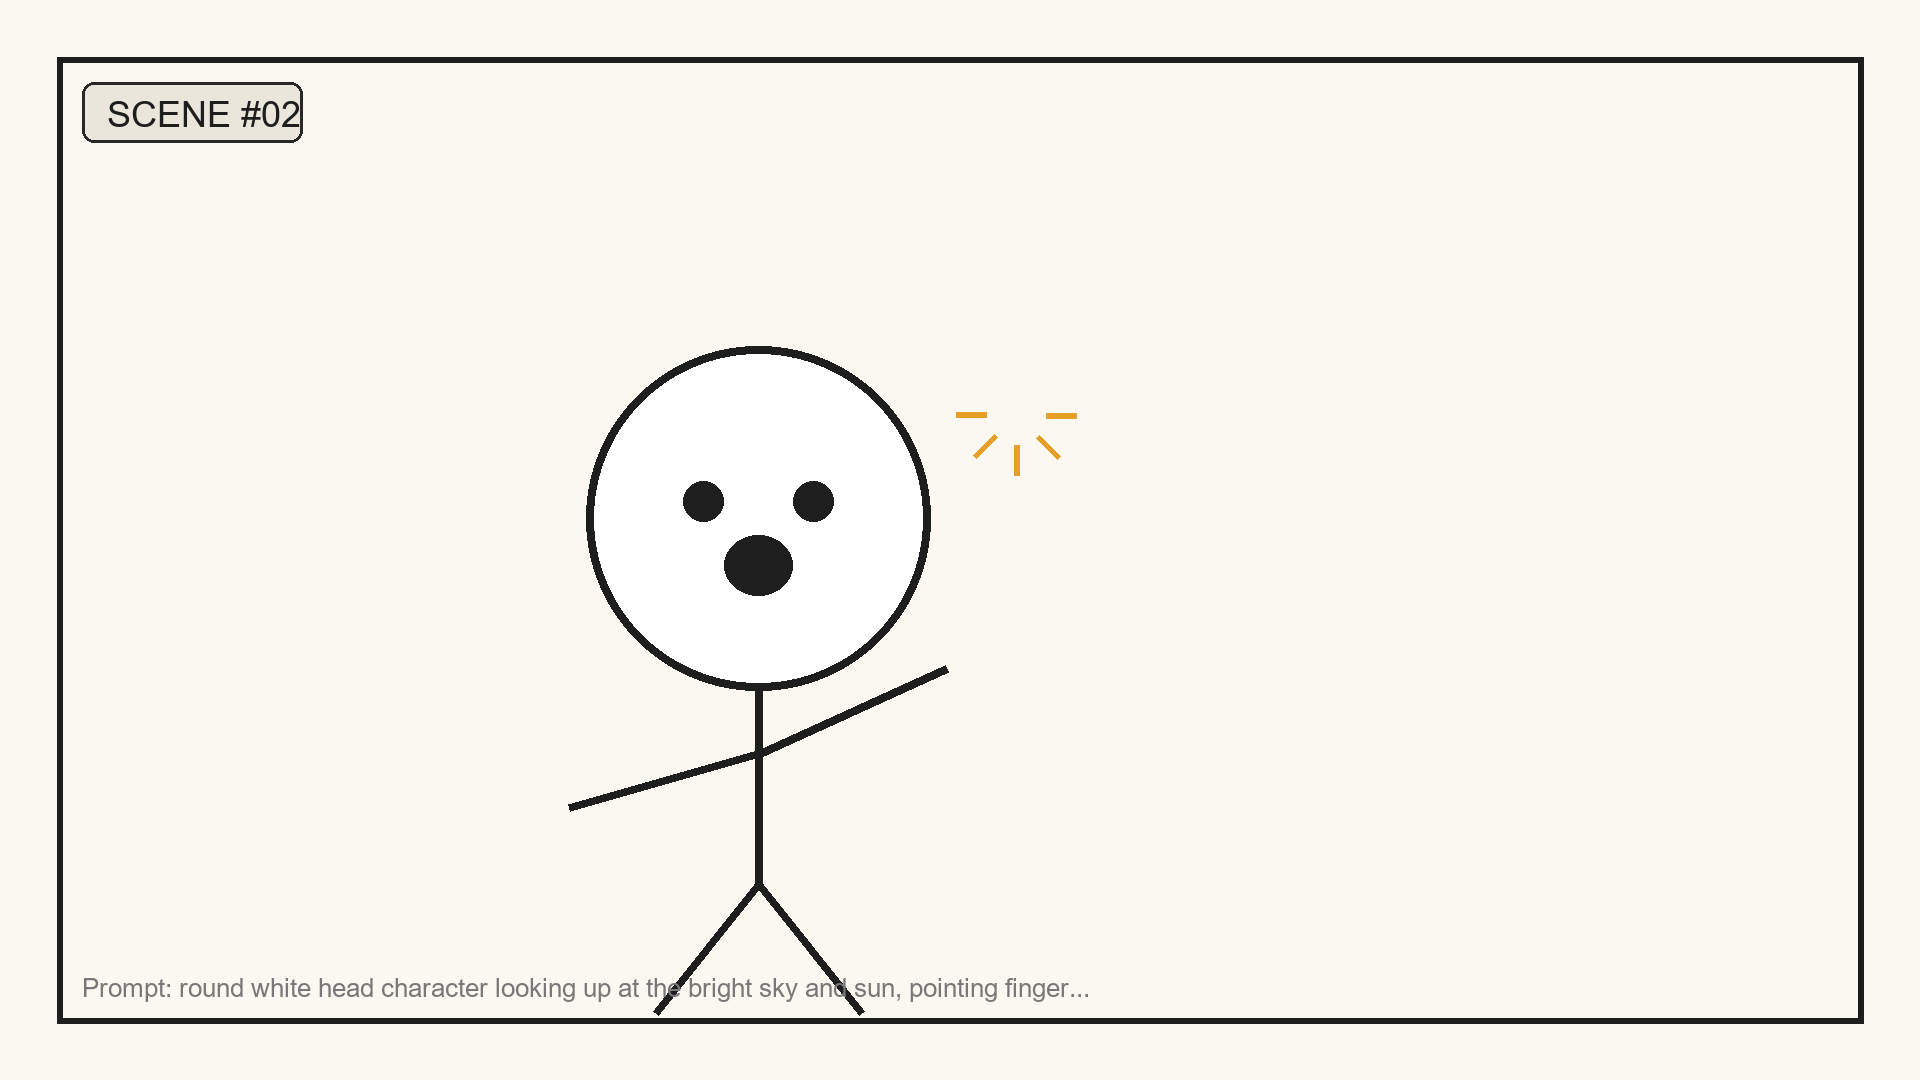
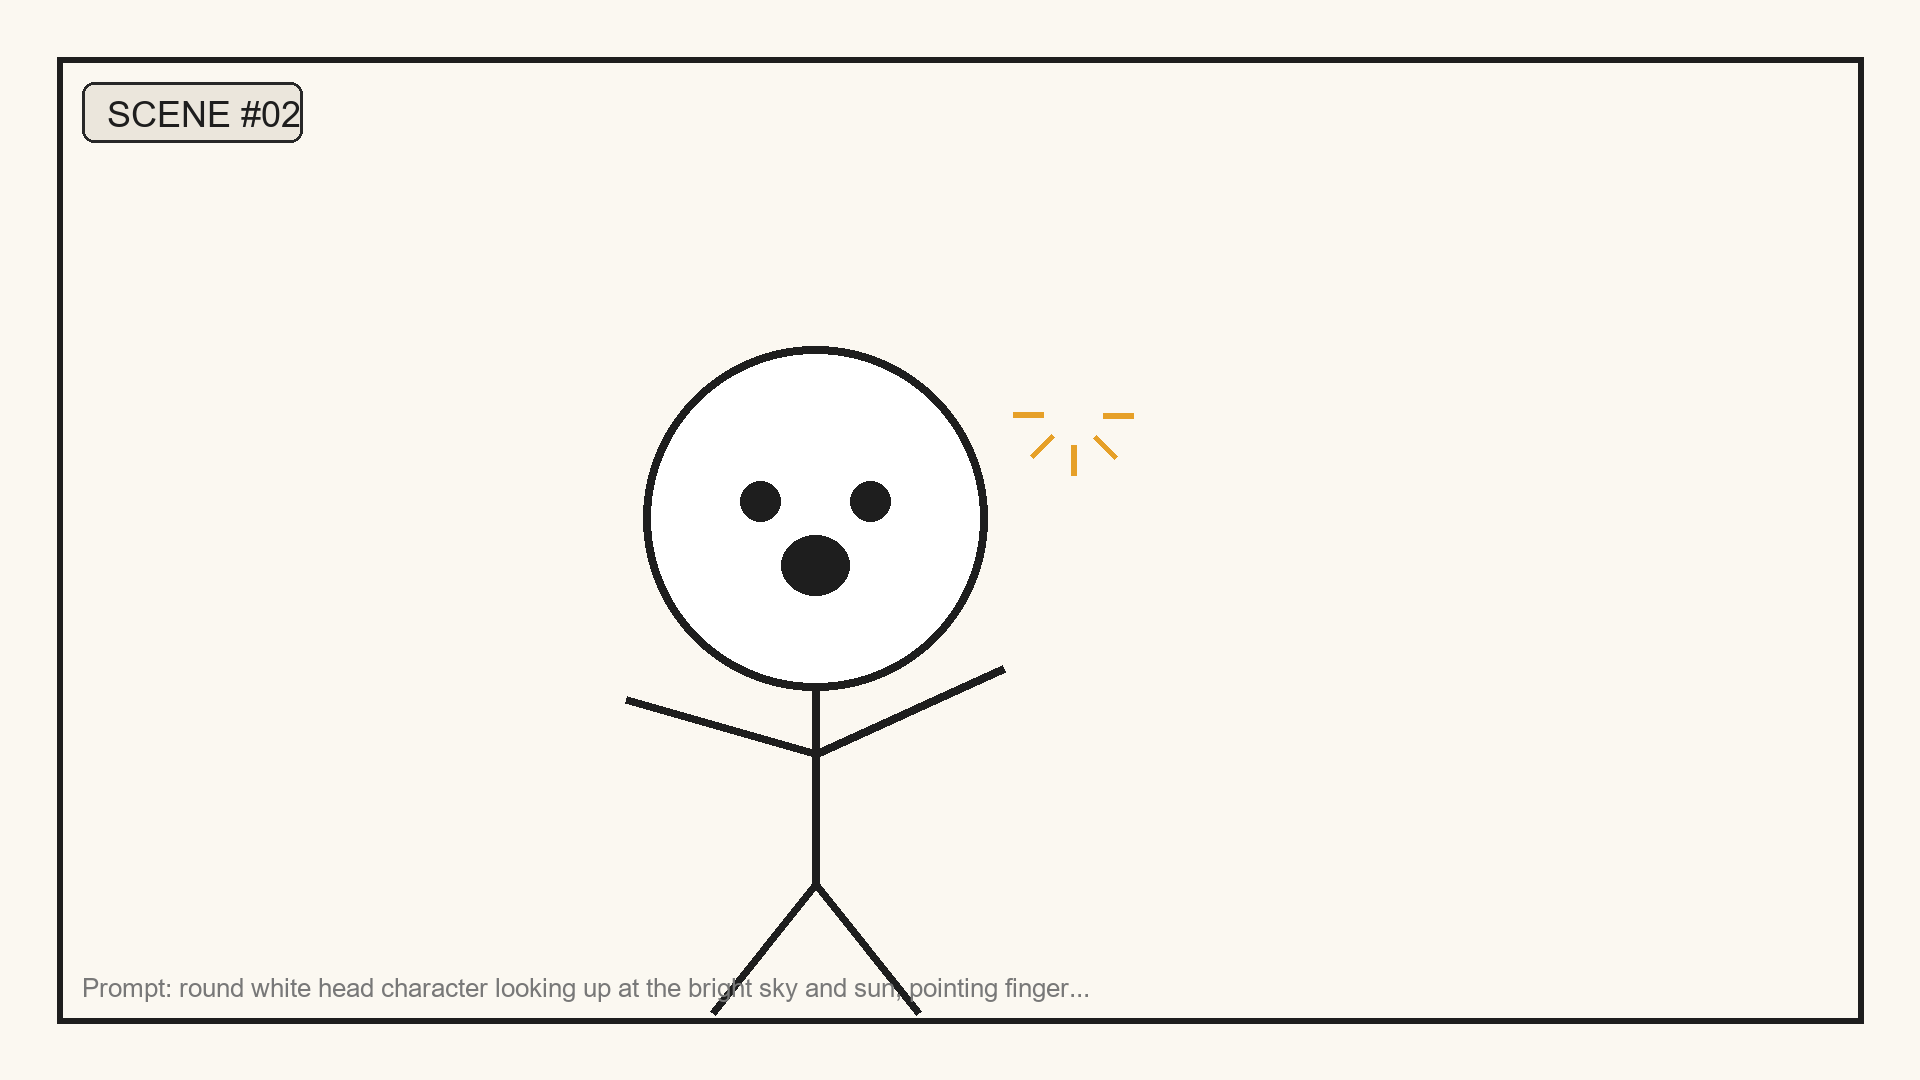
fix: resolve windows event loop in thread and stdout encoding

Changed region(s): [[0.2812, 0.3056, 0.5625, 0.9472], [0.2812, 0.7333, 0.3125, 0.7639]]

diff --git a/web/src/pages/ImagesPage.tsx b/web/src/pages/ImagesPage.tsx
@@ -50,13 +50,25 @@ export const ImagesPage: React.FC<ImagesPageProps> = ({ projectName, onNextStep 
   }, [projectName]);
 
   const handleGenerateAll = async (ignoreApproval: boolean = false) => {
+    const approved = items.filter((it) => it.status === 'approved').length;
+    let actualAll = ignoreApproval;
+    if (!ignoreApproval && approved === 0) {
+      if (confirm('Hiện chưa có cảnh nào được duyệt. Bạn có muốn sinh ảnh cho TẤT CẢ các cảnh không?')) {
+        actualAll = true;
+      } else {
+        return;
+      }
+    }
     try {
       await triggerJob(projectName, 'images', { 
         variants: variantsCount, 
         force: true, 
-        all: ignoreApproval 
+        all: actualAll 
       });
-      setTimeout(loadData, 3000);
+      // Tự động làm mới nhiều lần để cập nhật ảnh khi tác vụ hoàn thành
+      setTimeout(loadData, 1500);
+      setTimeout(loadData, 4000);
+      setTimeout(loadData, 8000);
     } catch (err: any) {
       alert(err.message);
     }
@@ -70,7 +82,8 @@ export const ImagesPage: React.FC<ImagesPageProps> = ({ projectName, onNextStep 
         force: true, 
         all: true 
       });
-      setTimeout(loadData, 3000);
+      setTimeout(loadData, 1500);
+      setTimeout(loadData, 3500);
     } catch (err: any) {
       alert(err.message);
     }

diff --git a/api/task_queue.py b/api/task_queue.py
@@ -35,9 +35,11 @@ class TaskQueue:
         self.active_websockets: List[Any] = []
         self._worker_task: Optional[asyncio.Task] = None
         self._cancel_requested: bool = False
+        self.loop: Optional[asyncio.AbstractEventLoop] = None
 
     def start(self):
         if self._worker_task is None:
+            self.loop = asyncio.get_running_loop()
             self._worker_task = asyncio.create_task(self._worker_loop())
 
     async def register_ws(self, websocket):
@@ -134,7 +136,8 @@ class TaskQueue:
                 task.percent = round(percent, 3)
                 task.message = message
                 task.data = data
-                asyncio.run_coroutine_threadsafe(self.broadcast_progress(task), asyncio.get_event_loop())
+                if self.loop and self.loop.is_running():
+                    asyncio.run_coroutine_threadsafe(self.broadcast_progress(task), self.loop)
 
             try:
                 # Chạy task trong thread pool để không block asyncio loop

diff --git a/core/image_generator.py b/core/image_generator.py
@@ -182,10 +182,10 @@ class DiffusersEngine:
                 self.pipe.enable_attention_slicing()
             return True
         except ImportError:
-            print("[DiffusersEngine] Chưa cài torch/diffusers. Chạy: pip install torch torchvision --index-url https://download.pytorch.org/whl/cu121 diffusers transformers accelerate")
+            print("[DiffusersEngine] Chua cai torch/diffusers. Hay chay: pip install torch torchvision --index-url https://download.pytorch.org/whl/cu121 diffusers transformers accelerate")
             return False
         except Exception as e:
-            print(f"[DiffusersEngine] Lỗi khởi tạo model Diffusers: {e}")
+            print(f"[DiffusersEngine] Loi khoi tao Diffusers: {e}")
             return False
 
     def generate(self, prompt: str, negative_prompt: str, width: int = 1024, height: int = 576, seed: int = 42, steps: int = 25) -> Image.Image:

diff --git a/api/app.py b/api/app.py
@@ -1,5 +1,14 @@
 import os
 import sys
+
+# Thiết lập UTF-8 cho console Windows
+if sys.platform == "win32":
+    import io
+    if hasattr(sys.stdout, 'buffer'):
+        sys.stdout = io.TextIOWrapper(sys.stdout.buffer, encoding='utf-8', errors='replace')
+    if hasattr(sys.stderr, 'buffer'):
+        sys.stderr = io.TextIOWrapper(sys.stderr.buffer, encoding='utf-8', errors='replace')
+
 from contextlib import asynccontextmanager
 from fastapi import FastAPI, WebSocket, WebSocketDisconnect
 from fastapi.middleware.cors import CORSMiddleware
